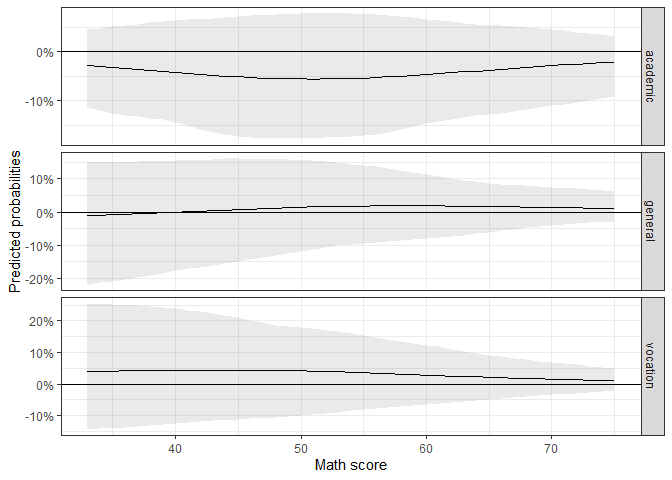
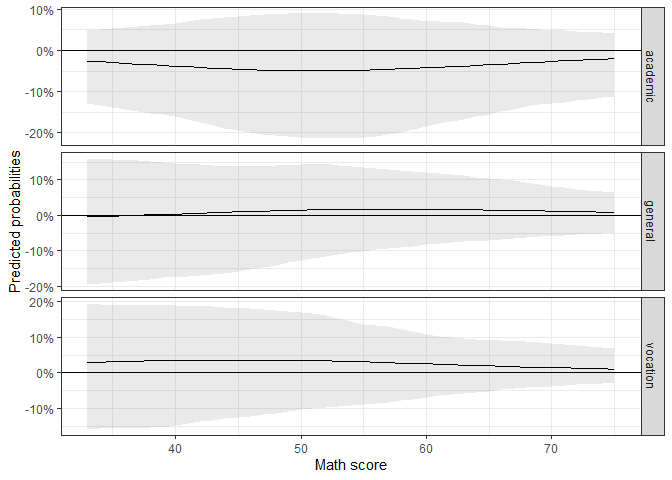
Download tag, too

diff --git a/README.md b/README.md
@@ -7,6 +7,8 @@
 
 [![Travis build
 status](https://travis-ci.org/ManuelNeumann/MNLpred.svg?branch=master)](https://travis-ci.org/ManuelNeumann/MNLpred)
+[![CRAN\_Status\_Badge](http://www.r-pkg.org/badges/version/MNLpred)](https://cran.r-project.org/package=MNLpred)
+[![downloads](http://cranlogs.r-pkg.org/badges/MNLpred)](http://cran.rstudio.com/web/packages/MNLpred/index.html)
 <!-- badges: end -->
 
 This package provides functions that make it easy to get plottable
@@ -27,15 +29,17 @@ Rodríguez](https://data.princeton.edu/wws509/notes/c6s2).
 Due to the inconvenience of integrating math equations in the README
 file, this is not the place to write comprehensively about it.
 
-These are the important characteristics of the model: \* The multinomial
-logit regression is used to model nominal outcomes. It provides the
-opportunity to assign specific choices a probability based on a set of
-independent variables. \* The model needs an assigned baseline category
-to be identifiable. All other choices are evaluated in contrast to this
-reference. \* The model returns a set of coefficients for each choice
-category. \* Like all logit models, the multinomial logit model returns
-log-odds which are difficult to interpret in terms of effect sizes and
-uncertainties.
+These are the important characteristics of the model:
+
+  - The multinomial logit regression is used to model nominal outcomes.
+    It provides the opportunity to assign specific choices a probability
+    based on a set of independent variables.
+  - The model needs an assigned baseline category to be identifiable.
+    All other choices are evaluated in contrast to this reference.
+  - The model returns a set of coefficients for each choice category.
+  - Like all logit models, the multinomial logit model returns log-odds
+    which are difficult to interpret in terms of effect sizes and
+    uncertainties.
 
 This package helps to interpret the model in meaningful ways.
 
@@ -237,12 +241,12 @@ pred1$plotdata %>% head()
 #> # A tibble: 6 x 5
 #>    math prog2     mean  lower upper
 #>   <dbl> <fct>    <dbl>  <dbl> <dbl>
-#> 1    33 academic 0.148 0.0535 0.344
-#> 2    34 academic 0.160 0.0621 0.356
-#> 3    35 academic 0.173 0.0719 0.367
-#> 4    36 academic 0.187 0.0835 0.378
-#> 5    37 academic 0.202 0.0964 0.390
-#> 6    38 academic 0.218 0.111  0.402
+#> 1    33 academic 0.149 0.0463 0.325
+#> 2    34 academic 0.161 0.0554 0.335
+#> 3    35 academic 0.174 0.0661 0.346
+#> 4    36 academic 0.188 0.0784 0.357
+#> 5    37 academic 0.203 0.0925 0.367
+#> 6    38 academic 0.219 0.109  0.379
 ```
 
 As we can see, it includes the range of the x variable, a mean, a lower,
@@ -324,12 +328,12 @@ fdif2$plotdata_fd %>% head()
 #> # A tibble: 6 x 5
 #>    math prog2       mean  lower  upper
 #>   <dbl> <fct>      <dbl>  <dbl>  <dbl>
-#> 1    33 academic -0.0291 -0.115 0.0448
-#> 2    34 academic -0.0310 -0.121 0.0478
-#> 3    35 academic -0.0329 -0.126 0.0508
-#> 4    36 academic -0.0348 -0.130 0.0535
-#> 5    37 academic -0.0368 -0.133 0.0559
-#> 6    38 academic -0.0389 -0.136 0.0583
+#> 1    33 academic -0.0259 -0.128 0.0482
+#> 2    34 academic -0.0276 -0.133 0.0505
+#> 3    35 academic -0.0293 -0.138 0.0529
+#> 4    36 academic -0.0311 -0.143 0.0555
+#> 5    37 academic -0.0329 -0.147 0.0581
+#> 6    38 academic -0.0347 -0.152 0.0608
 ```
 
 Since the function calls the `mnl_pred_ova()` function internally, it
